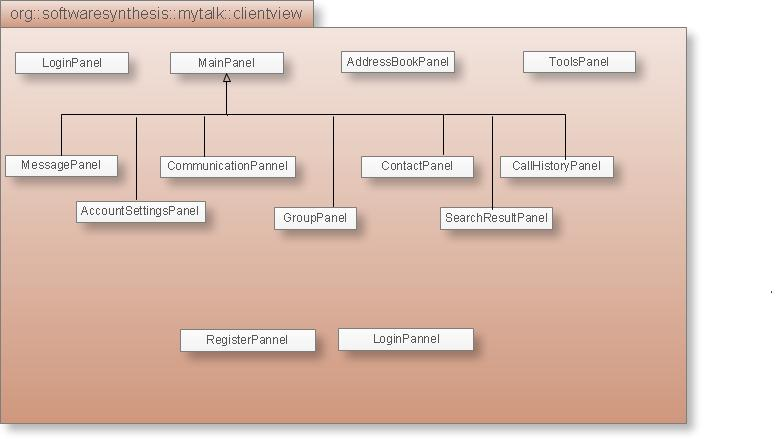
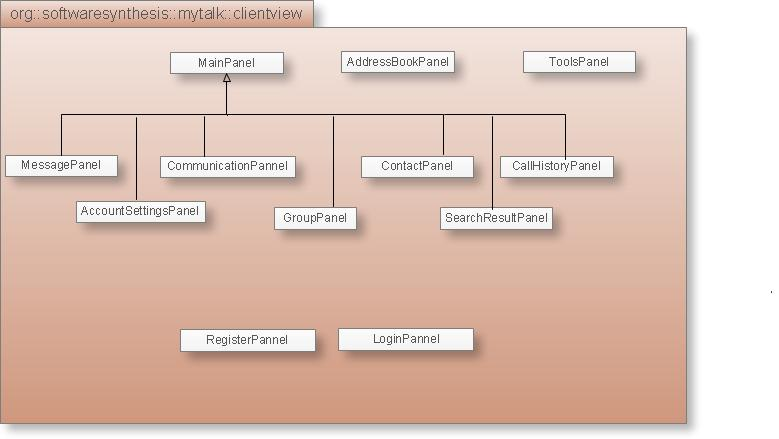
aggiornata specifica

Changed region(s): [[0.0, 0.1185, 0.1849, 0.2073]]

diff --git a/Documents/specifica_tecnica/specifica_tecnica.tex b/Documents/specifica_tecnica/specifica_tecnica.tex
@@ -2062,7 +2062,8 @@ Si noti che tale componente demanda tutta la logica di applicazione al \inglese{
 	\item{\scshape\bfseries Diagramma delle classi:}
   \begin{figure}[H]
     \centering
-    %\includegraphics[width=.8\textwidth]{class_gui}
+    
+   \includegraphics[width=.8\textwidth]{class_gui_panel}
     \caption{Diagramma delle classi - GUI}\label{fig:gui}
   \end{figure}
 
@@ -2089,7 +2090,7 @@ Il componente \textsf{Login} ha la responsabilità di ricevere in ingresso le cr
 	\item{\scshape\bfseries Diagramma delle classi:}
   \begin{figure}[H]
     \centering
-    %\includegraphics[width=.8\textwidth]{class_gui}
+    \includegraphics[width=.8\textwidth]{class_gui_login}
     \caption{Diagramma delle classi - Login}\label{fig:login}
   \end{figure}
 
@@ -2313,7 +2314,7 @@ Ogni classe di tale package implementa Façade poiché nasconde l'iter per la ge
 
 \begin{figure}[H]
   \centering
-%   \includegraphics[width=.7\textwidth]{}
+   \includegraphics[width=.7\textwidth]{pattern_facade_rubrica}
   \caption{Applicazione del \inglese{pattern} Façade a \textsf{Gestione rubrica}}\label{fig:facadeaddressbook1}
 \end{figure}
 
@@ -2339,7 +2340,7 @@ Ogni classe di tale package implementa Façade poiché nasconde l'iter per la ge
 
 \begin{figure}[H]
   \centering
-%   \includegraphics[width=.7\textwidth]{}
+  \includegraphics[width=.7\textwidth]{pattern_facade_segreteria}
   \caption{Applicazione del \inglese{pattern} Façade a \textsf{Gestione segreteria}}\label{fig:facadeaddressbook2}
 \end{figure}
 
@@ -2349,7 +2350,7 @@ Tale classe nasconde la complessità di gestione di una comunicazione client-ser
 
 \begin{figure}[H]
   \centering
-%   \includegraphics[width=.7\textwidth]{}
+     \includegraphics[width=.7\textwidth]{pattern_facade_connessione}
   \caption{Applicazione del \inglese{pattern} Façade a \textsf{Gestione connessione}}\label{fig:facadeconnection}
 \end{figure}
 
@@ -2359,7 +2360,7 @@ Tale classe nasconde la complessità di gestione di una richiesta di \inglese{do
 
 \begin{figure}[H]
   \centering
-%   \includegraphics[width=.7\textwidth]{}
+   \includegraphics[width=.7\textwidth]{pattern_facade_chiamate}
   \caption{Applicazione del \inglese{pattern} Façade a \textsf{Gestione chiamate}}\label{fig:facadestate}
 \end{figure}
 
@@ -2369,7 +2370,7 @@ Ogni classe di tale package implementa Façade poiché nasconde l'iter per l'aut
 
 \begin{figure}[H]
   \centering
-%   \includegraphics[width=.7\textwidth]{}
+  \includegraphics[width=.7\textwidth]{pattern_facade_autenticazione}
   \caption{Applicazione del \inglese{pattern} Façade a \textsf{Gestione autenticazione}}\label{fig:facademessage}
 \end{figure}
 
@@ -2405,11 +2406,13 @@ Definisce un'interfaccia per il comportamento di un algoritmo generico, lasciand
   \item{\scshape\bfseries CS04 -- Gestione autenticazione}\\
 All'interno di tale classe l'utilizzo del pattern si ha nel momento in cui è necessario definire una strategia di criptazione e decriptazione dei dati, passati dall'utente per eseguire l'autenticazione. L'interfaccia atta a definire l'algoritmo generico è \texttt{authentication.ISecurityStrategy} mentre una prima implementazione proposta dal team è \texttt{authentication.AESAlgorithm}, che definisce un algoritmo di criptazione basato su AES.
 
-%\begin{figure}[H]
-%  \centering
-%  \includegraphics[width=.8\textwidth]{pattern_factorymethod}
-%  \caption{Applicazione del \inglese{pattern} Factory Method}\label{fig:factory_method}
-%\end{figure}
+
+
+\begin{figure}[H]
+  \centering
+  \includegraphics[width=.8\textwidth]{pattern_strategy}
+  \caption{Applicazione del \inglese{pattern} Strategy}\label{fig:strategy}
+\end{figure}
 
 \end{description}
 
